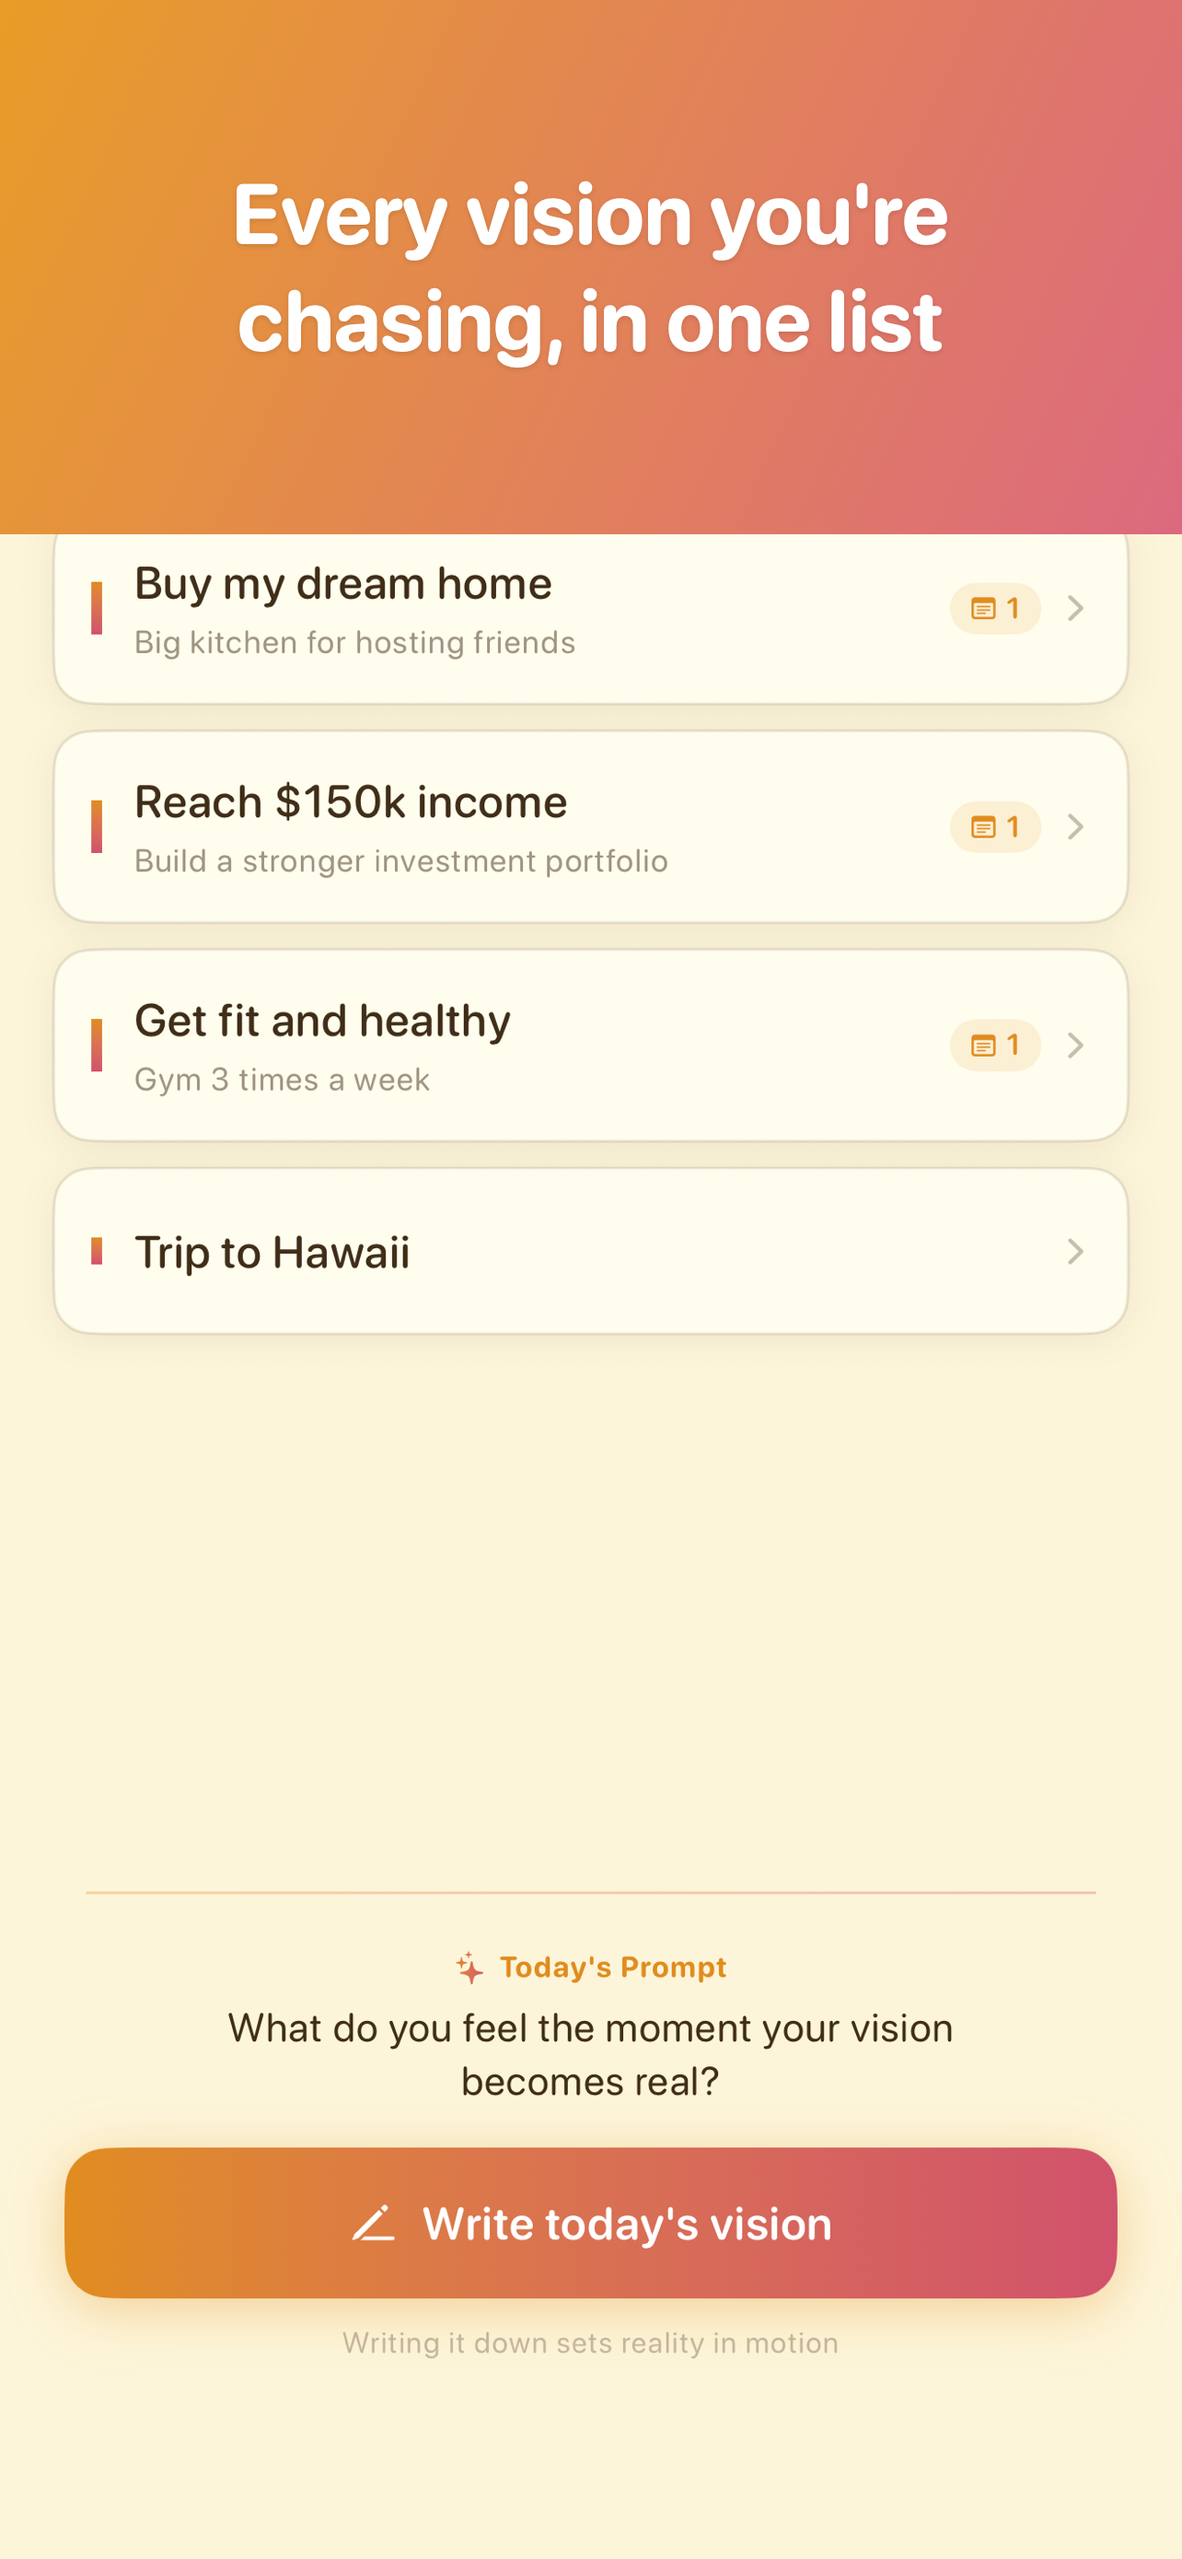
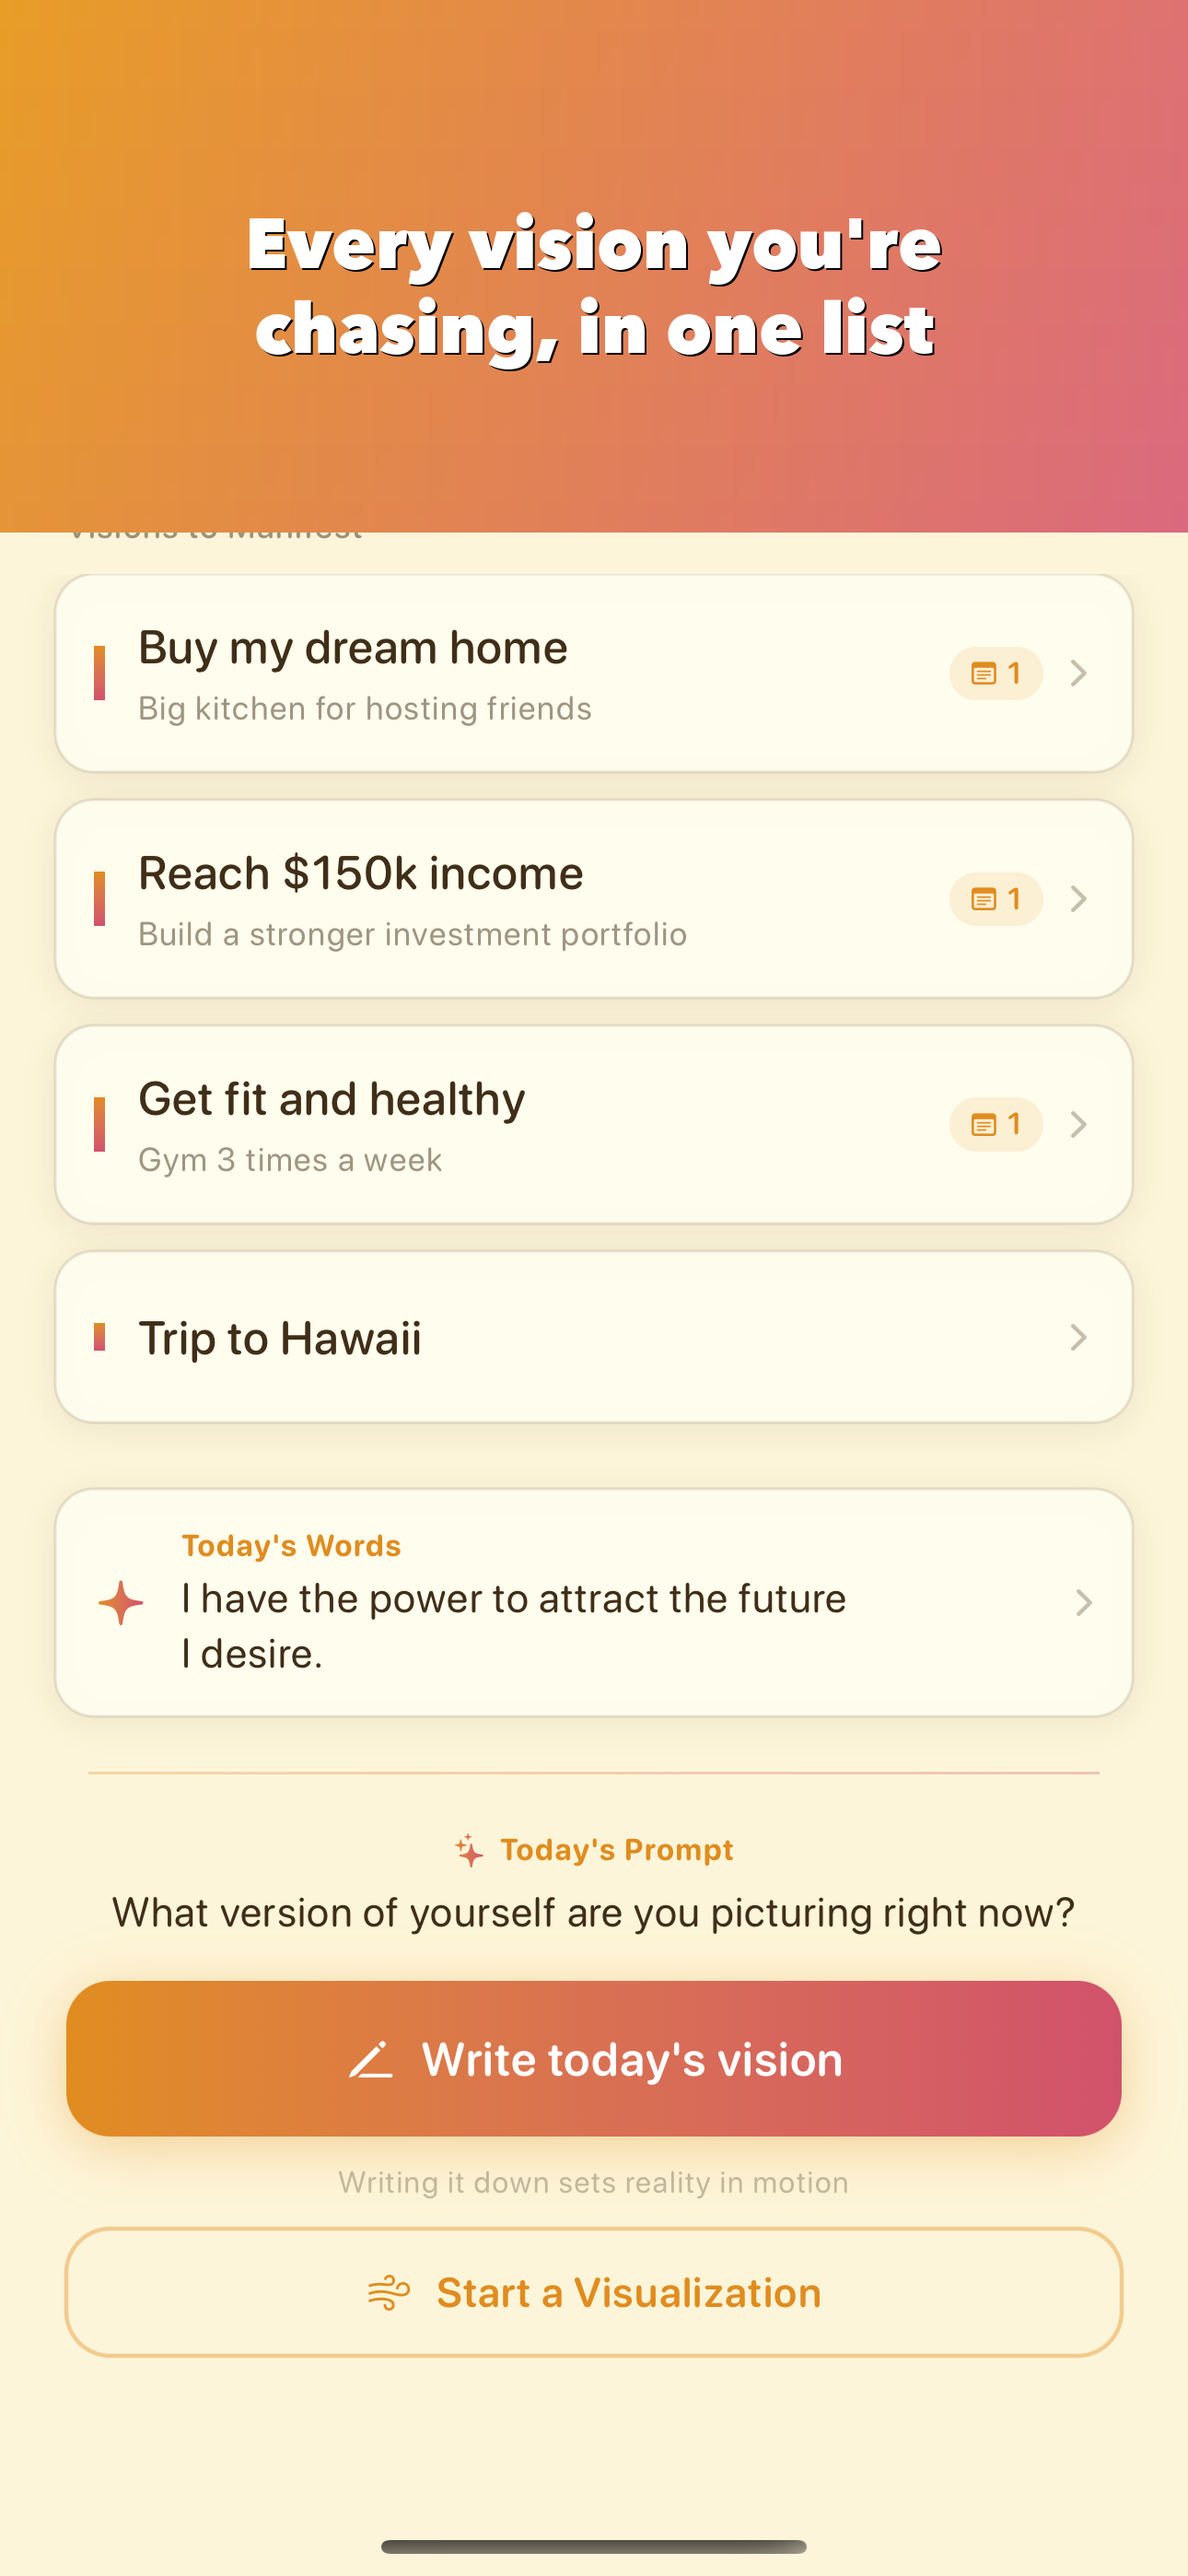
feat: 新機能のスクリーンショットを追加、ホーム画像を1.5の見た目に更新
1.5で追加したデイリーアファーメーション・ストリーク・ガイド付き
ビジュアライゼーションをストアのスクリーンショットでも紹介する。

- 09: アファーメーション画面(お気に入り付き)を追加
- 10: ビジュアライゼーション実行中の画面を追加
- 02(ホーム): 空白バグ修正後の見た目に差し替え、ストリークバッジ
  (🔥 7日連続)も写るようにした

テスト面:
- StreakManager / AffirmationStore に撮影専用のシード引数
  (-uitestSeedStreak / -uitestSeedFavorite)を追加。AffirmationStore
  側はタップ操作のタイミング依存をなくすため、最初から直接シードする
  方式にした(タップ直後はScrollViewがまだ整定しておらず、お気に入り
  タップが不安定だったため)
- AffirmationViewの4つのボタンにaccessibilityIdentifierを付与
- ScreenshotTests(JA/EN)に新規2画面のテストを追加

キャプション付与は update_hero_caption*.py を一般化した
scripts/add_caption.py で行った。アファーメーション画面は本文が
通常より上に来るため、帯の高さを短く(500px)調整している。

diff --git a/BloomJournalUITests/ScreenshotTestsJA.swift b/BloomJournalUITests/ScreenshotTestsJA.swift
@@ -49,7 +49,7 @@ final class ScreenshotTestsJA: XCTestCase {
     // MARK: - 02-08 Main flow (seeded data)
 
     func testMainFlow() throws {
-        let app = makeApp(["-uitestSeed"])
+        let app = makeApp(["-uitestSeed", "-uitestSeedStreak"])
         app.launch()
 
         // 02 Home
@@ -109,6 +109,35 @@ final class ScreenshotTestsJA: XCTestCase {
                       "Release completion not shown")
         settle()
         snap("08_release_complete_ja")
+    }
+
+    // MARK: - 09 Affirmation (daily affirmation + streak)
+
+    func testAffirmation() throws {
+        let app = makeApp(["-uitestSeed", "-uitestSeedStreak", "-uitestSeedFavorite"])
+        app.launch()
+
+        XCTAssertTrue(waitFor(app.staticTexts["今日の言葉"]), "Home not shown")
+        app.staticTexts["今日の言葉"].tap()
+        XCTAssertTrue(waitFor(app.staticTexts["お気に入り"]), "Affirmation sheet not shown")
+        settle(1.2)   // let any transient system overlay (e.g. app-switch banner) clear
+        settle()
+        snap("09_affirmation_ja")
+    }
+
+    // MARK: - 10 Visualization
+
+    func testVisualizationScreenshot() throws {
+        let app = makeApp(["-uitestSeed"])
+        app.launch()
+
+        XCTAssertTrue(waitFor(app.buttons["ビジュアライゼーションを始める"]), "Entry point not shown")
+        app.buttons["ビジュアライゼーションを始める"].coordinate(withNormalizedOffset: CGVector(dx: 0.5, dy: 0.5)).tap()
+        XCTAssertTrue(waitFor(app.staticTexts["ビジュアライゼーション"]), "Setup screen not shown")
+        if app.buttons["10分"].waitForExistence(timeout: 3) { app.buttons["10分"].tap() }
+        app.buttons["はじめる"].tap()
+        settle(1.5)
+        snap("10_visualization_ja")
     }
 
     // MARK: - Sheet dismissal

diff --git a/BloomJournalUITests/ScreenshotTests.swift b/BloomJournalUITests/ScreenshotTests.swift
@@ -55,7 +55,7 @@ final class ScreenshotTests: XCTestCase {
     // MARK: - 02-08 Main flow (seeded data)
 
     func testMainFlow() throws {
-        let app = makeApp(["-uitestSeed"])
+        let app = makeApp(["-uitestSeed", "-uitestSeedStreak"])
         app.launch()
 
         // 02 Home
@@ -120,6 +120,35 @@ final class ScreenshotTests: XCTestCase {
                       "Release completion not shown")
         settle()
         snap("08_release_complete_en")
+    }
+
+    // MARK: - 09 Affirmation (daily affirmation + streak)
+
+    func testAffirmation() throws {
+        let app = makeApp(["-uitestSeed", "-uitestSeedStreak", "-uitestSeedFavorite"])
+        app.launch()
+
+        XCTAssertTrue(waitFor(app.staticTexts["Today's Words"]), "Home not shown")
+        app.staticTexts["Today's Words"].tap()
+        XCTAssertTrue(waitFor(app.staticTexts["Favorites"]), "Affirmation sheet not shown")
+        settle(1.2)   // let any transient system overlay (e.g. app-switch banner) clear
+        settle()
+        snap("09_affirmation_en")
+    }
+
+    // MARK: - 10 Visualization
+
+    func testVisualizationScreenshot() throws {
+        let app = makeApp(["-uitestSeed"])
+        app.launch()
+
+        XCTAssertTrue(waitFor(app.buttons["Start a Visualization"]), "Entry point not shown")
+        app.buttons["Start a Visualization"].coordinate(withNormalizedOffset: CGVector(dx: 0.5, dy: 0.5)).tap()
+        XCTAssertTrue(waitFor(app.staticTexts["Visualization"]), "Setup screen not shown")
+        if app.buttons["10 min"].waitForExistence(timeout: 3) { app.buttons["10 min"].tap() }
+        app.buttons["Get Started"].tap()
+        settle(1.5)
+        snap("10_visualization_en")
     }
 
     // MARK: - Sheet dismissal

diff --git a/BloomJournal/Views/AffirmationView.swift b/BloomJournal/Views/AffirmationView.swift
@@ -33,6 +33,7 @@ struct AffirmationView: View {
                             .clipShape(Circle())
                             .overlay(Circle().stroke(Theme.cardBorder, lineWidth: 1))
                     }
+                    .accessibilityIdentifier("affirmation.close")
                 }
                 .padding(.horizontal, 24)
                 .padding(.top, 24)
@@ -66,6 +67,7 @@ struct AffirmationView: View {
                                     .clipShape(Circle())
                                     .overlay(Circle().stroke(Theme.cardBorder, lineWidth: 1))
                             }
+                            .accessibilityIdentifier("affirmation.prev")
 
                             Button { toggleFavorite() } label: {
                                 Image(systemName: affirmationStore.isFavorite(current) ? "heart.fill" : "heart")
@@ -80,6 +82,7 @@ struct AffirmationView: View {
                                     .clipShape(Circle())
                                     .overlay(Circle().stroke(Theme.cardBorder, lineWidth: 1))
                             }
+                            .accessibilityIdentifier("affirmation.favorite")
 
                             Button { move(1) } label: {
                                 Image(systemName: "chevron.right")
@@ -90,6 +93,7 @@ struct AffirmationView: View {
                                     .clipShape(Circle())
                                     .overlay(Circle().stroke(Theme.cardBorder, lineWidth: 1))
                             }
+                            .accessibilityIdentifier("affirmation.next")
                         }
                     }
                     .padding(.horizontal, 24)

diff --git a/BloomJournal/Models/StreakManager.swift b/BloomJournal/Models/StreakManager.swift
@@ -16,6 +16,14 @@ class StreakManager: ObservableObject {
     }()
 
     private init() {
+        if ProcessInfo.processInfo.arguments.contains("-uitestSeedStreak") {   // スクリーンショット撮影用
+            let calendar = Calendar.current
+            practicedDates = Set((0..<7).compactMap { offset in
+                calendar.date(byAdding: .day, value: -offset, to: Date()).map(Self.dayFormatter.string(from:))
+            })
+            recalculate()
+            return
+        }
         if let saved = UserDefaults.standard.array(forKey: key) as? [String] {
             practicedDates = Set(saved)
         }

diff --git a/BloomJournal/Models/AffirmationStore.swift b/BloomJournal/Models/AffirmationStore.swift
@@ -7,6 +7,12 @@ class AffirmationStore: ObservableObject {
     private let key = "favoriteAffirmations"
 
     init() {
+        if ProcessInfo.processInfo.arguments.contains("-uitestSeedFavorite") {   // スクリーンショット撮影用
+            let dayOfYear = Calendar.current.ordinality(of: .day, in: .year, for: Date()) ?? 1
+            let affirmations = LocalizedContent.affirmations
+            favorites = [affirmations[dayOfYear % affirmations.count]]
+            return
+        }
         if let saved = UserDefaults.standard.array(forKey: key) as? [String] {
             favorites = Set(saved)
         }

diff --git a/scripts/add_caption.py b/scripts/add_caption.py
@@ -1,0 +1,81 @@
+#!/usr/bin/env python3
+"""Render the gradient headline banner used across all App Store screenshots
+onto an arbitrary raw screenshot. Generalized from update_hero_caption*.py so
+new screenshots (not just the hero) can be captioned with the same style.
+
+Usage:
+    python3 scripts/add_caption.py <locale: ja|en> <src.png> <dst.png> <line1> [line2]
+"""
+import os
+import sys
+from PIL import Image, ImageDraw, ImageFont
+
+# Override via CAPTION_BAND_HEIGHT env var when a screen's own content sits
+# higher up than usual (e.g. a sheet whose header is shorter than a full
+# screen), so the band doesn't cut across real content below it.
+BAND_HEIGHT = int(os.environ.get("CAPTION_BAND_HEIGHT", "578"))
+
+# Sampled corners of the established diagonal gradient band (same as
+# update_hero_caption.py / update_hero_caption_en.py).
+TL = (232, 157, 39)
+TR = (222, 114, 113)
+BL = (229, 148, 56)
+BR = (219, 105, 126)
+
+FONTS = {
+    "ja": {"path": "/System/Library/Fonts/ヒラギノ角ゴシック W8.ttc", "index": 0, "size": 78, "spacing": 18},
+    "en": {"path": "/System/Library/Fonts/Avenir Next.ttc", "index": 8, "size": 76, "spacing": 16},
+}
+
+
+def lerp(a, b, t):
+    return tuple(round(a[i] + (b[i] - a[i]) * t) for i in range(3))
+
+
+def make_gradient(w, h):
+    img = Image.new("RGB", (w, h))
+    px = img.load()
+    for y in range(h):
+        ty = y / (h - 1)
+        left = lerp(TL, BL, ty)
+        right = lerp(TR, BR, ty)
+        for x in range(w):
+            tx = x / (w - 1)
+            px[x, y] = lerp(left, right, tx)
+    return img
+
+
+def main():
+    if len(sys.argv) not in (5, 6):
+        print(__doc__)
+        sys.exit(2)
+    locale, src, dst = sys.argv[1], sys.argv[2], sys.argv[3]
+    lines = sys.argv[4:]
+
+    spec = FONTS[locale]
+    img = Image.open(src).convert("RGB")
+    w, h = img.size
+
+    band = make_gradient(w, BAND_HEIGHT)
+    img.paste(band, (0, 0))
+
+    draw = ImageDraw.Draw(img)
+    font = ImageFont.truetype(spec["path"], spec["size"], index=spec["index"])
+
+    font_size, line_spacing = spec["size"], spec["spacing"]
+    total_h = len(lines) * font_size + (len(lines) - 1) * line_spacing
+    y = (BAND_HEIGHT - total_h) // 2 + 10
+    for line in lines:
+        bbox = draw.textbbox((0, 0), line, font=font)
+        line_w = bbox[2] - bbox[0]
+        x = (w - line_w) // 2
+        draw.text((x + 2, y + 2), line, font=font, fill=(0, 0, 0, 60))
+        draw.text((x, y), line, font=font, fill=(255, 255, 255))
+        y += font_size + line_spacing
+
+    img.save(dst)
+    print(f"wrote {dst} ({w}x{h})")
+
+
+if __name__ == "__main__":
+    main()
